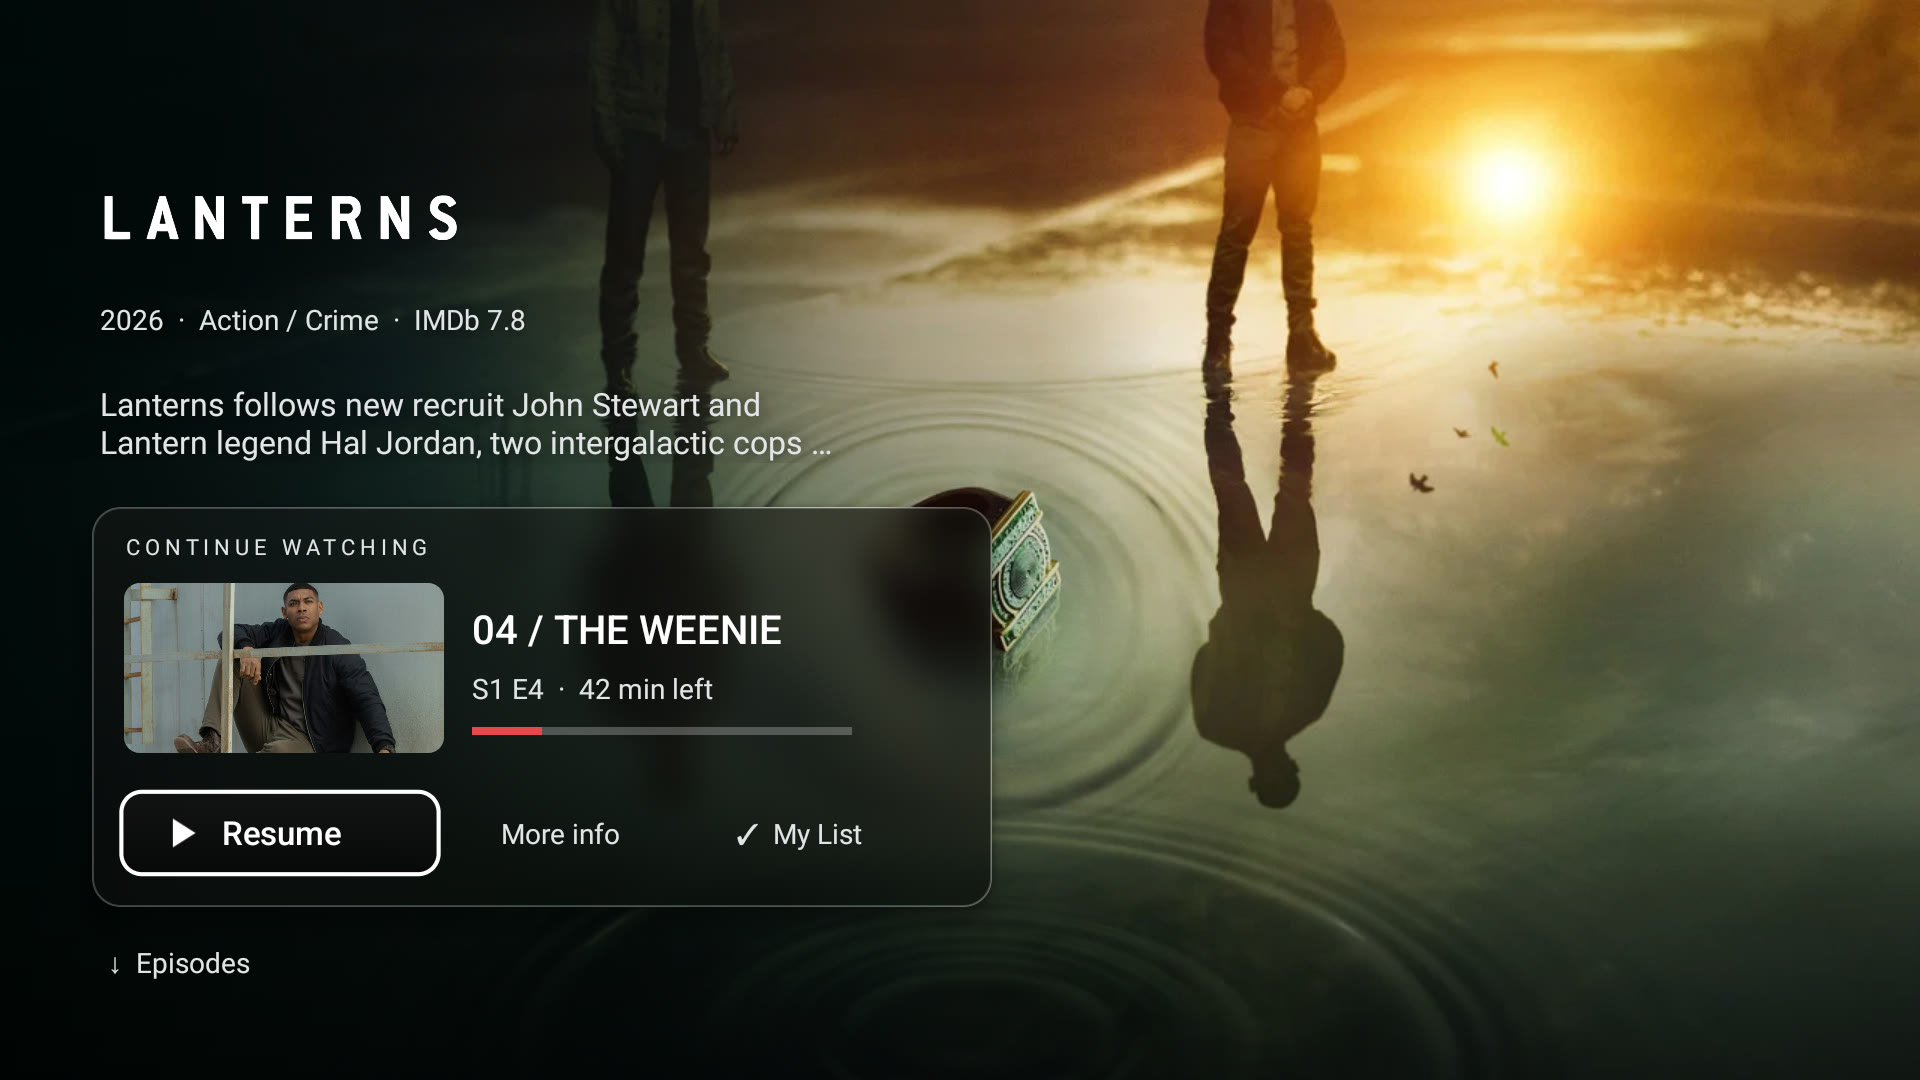
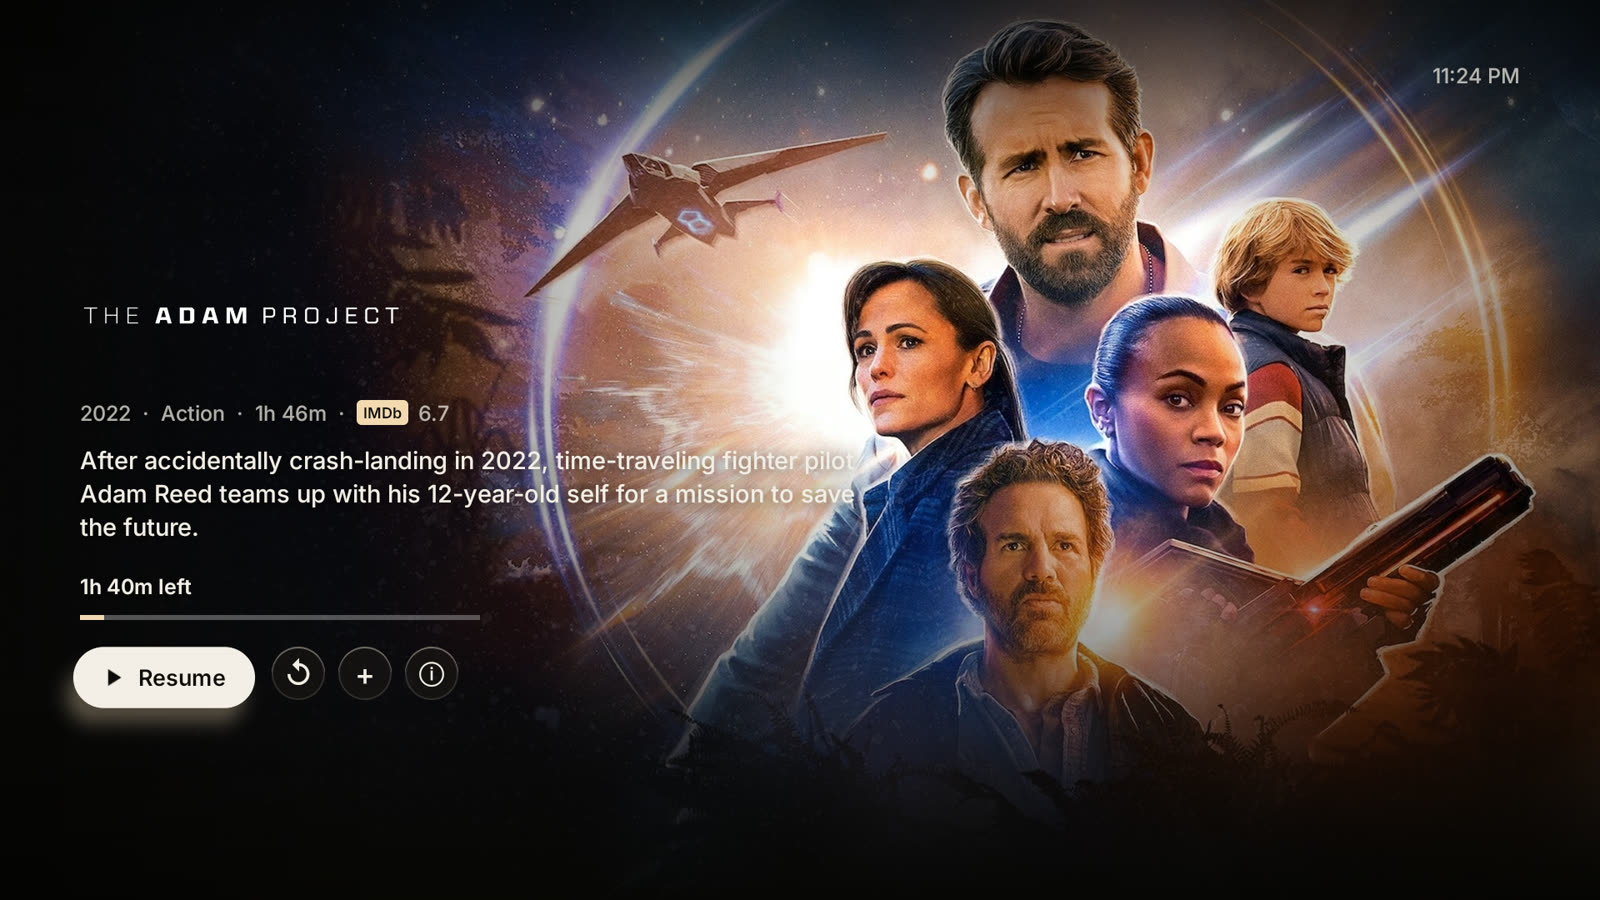
README: new screenshots, why Alder, clearer comparison with Stremio

diff --git a/README.md b/README.md
@@ -1,74 +1,109 @@
 <h1 align="center">Alder</h1>
 
 <p align="center">
-  The Stremio app for your TV, rebuilt. Keep Stremio on your phone and computer; watch in Alder.
+  <b>Stremio for the living room.</b><br>
+  Press Play and it plays. No stream lists to decode, no dead links, no setup on the remote.
 </p>
 
 <p align="center">
   <a href="https://github.com/aradhyas8/Alder/releases/latest"><img alt="Latest release" src="https://img.shields.io/github/v/release/aradhyas8/Alder?label=release"></a>
-  <img alt="Android 8.0+" src="https://img.shields.io/badge/Android-8.0%2B-3ddc84">
+  <img alt="Android TV 8.0+" src="https://img.shields.io/badge/Android%20TV-8.0%2B-3ddc84">
   <a href="LICENSE"><img alt="GPL-3.0 License" src="https://img.shields.io/badge/license-GPL--3.0-blue"></a>
 </p>
 
 <p align="center">
-  <img src="docs/home.jpg" alt="Alder home screen" width="49%">
-  <img src="docs/details.jpg" alt="Alder title page" width="49%">
+  <img src="docs/home.jpg" alt="Alder home screen with Continue Watching" width="100%">
 </p>
 
-Alder replaces the Stremio app on your TV, not Stremio itself. Your account, add-ons, library and watch progress stay exactly where they are, and everything you do in Alder syncs back to Stremio on your phone and computer. What's new is the app you watch in: made for a TV and a remote, and quiet enough that the film is the main thing on screen.
+Alder is an Android TV app for your Stremio account. Your account, add-ons, library and watch progress stay exactly where they are, and everything you watch syncs back to Stremio on your phone and computer. What changes is the app on the TV: built for a remote, simple enough for anyone in the family, and quiet enough that the film is the main thing on screen.
 
-## How it fits with Stremio
+## Why Alder
 
-You still use Stremio. Alder is the part you sit in front of.
+Stremio on a TV hands you a list of fifty streams named like `2160p.WEB.HEVC.DV.HDR10.Atmos`, and leaves you to guess which one your TV can play. That's fine for the person who set it up. It isn't for parents, grandparents, or anyone who just wants to watch.
 
-- **On your phone or computer, in Stremio:** create your account, find add-ons, configure them (AIOStreams, Torrentio and the like are set up on a web page) and install them.
-- **On your TV, in Alder:** sign in once with a code, then browse, play and pick up where you left off. Add-ons you install in Stremio show up in Alder on their own.
+Alder makes that choice for them:
 
-Alder has no add-on store of its own. Setting up add-ons is typing and web forms, which is easier on a phone than with a remote.
+- **Press Play, it plays.** Alder picks the best source for your TV and starts it. Hold OK when you want to choose yourself.
+- **Dead links don't stop the film.** If a stream fails or shows no picture within 12 seconds, Alder moves to the next one from the same second. You only see the list if three fail in a row.
+- **It knows your TV.** Files your TV can't decode are left out before anyone sees them, including Dolby Vision profiles it can't show and 4K on a 1080p screen.
+- **Sound that works.** DTS and TrueHD play on any TV. The starting track is the original language, not a dub or a commentary. If a track breaks mid-film, the next best one takes over at the same second.
+- **Everyone gets their own profile.** Up to 5, each its own Stremio account with its own history and recommendations, and an optional PIN.
 
-## Highlights
+## A look around
 
-- **Press Play, it plays.** Alder picks the best source for your TV and starts it. If a stream fails or shows no picture, it moves to the next one from the same second. Hold OK when you want to choose.
-- **Picks up where you left off.** Resume reaches for the same release you were watching, and the next episode prefers the same release group, so quality and audio don't change mid-season.
-- **Knows your TV.** Files your TV can't decode are left out before you see them, including Dolby Vision profiles it can't show. Higher quality than your screen or HDR on a screen without it goes down the list.
-- **A profile for everyone.** Up to 5 profiles, each its own Stremio account with its own history and recommendations, and an optional PIN.
-- **Continue Watching on the Google TV home screen.** Jump straight back into a show without opening the app first.
-- **A cinematic interface.** Full-screen art, title logos and rows of posters, with everything else out of the way.
-- **The player you'd want.** Skip intro, Up next in the last minute (it plays on at the end unless you watch the credits), audio and subtitle choice in one panel, subtitles from add-ons like OpenSubtitles with size, background and timing controls, DTS and TrueHD audio, and frame-rate matching.
-- **Share a streaming source at home.** A profile can let another profile use one of its configured stream add-ons on this TV without merging their Stremio watch histories.
-- **Tidy add-ons from the sofa.** Reorder, remove, or add one by URL. Changes save to your Stremio account.
+<table>
+  <tr>
+    <td width="50%"><img src="docs/picker.jpg" alt="Profile picker"><br><b>Who's watching.</b> One profile per person, each its own Stremio account.</td>
+    <td width="50%"><img src="docs/details.jpg" alt="Title page"><br><b>Title page.</b> Full-screen art, how much is left, and one button to Resume.</td>
+  </tr>
+  <tr>
+    <td><img src="docs/sources.jpg" alt="Sources list"><br><b>Sources, when you want them.</b> Hold OK to see every source in plain columns: quality, release, size. Best match is marked.</td>
+    <td><img src="docs/tracks.jpg" alt="Audio and subtitles panel"><br><b>Audio and subtitles in one panel.</b> English original picked over the dubs on its own.</td>
+  </tr>
+  <tr>
+    <td><img src="docs/controls.jpg" alt="Player controls"><br><b>A calm player.</b> Time left, when it ends, and the few controls that matter.</td>
+    <td><img src="docs/search.jpg" alt="Search"><br><b>Search across every add-on</b>, with a keyboard built for the remote, and voice.</td>
+  </tr>
+  <tr>
+    <td><img src="docs/settings.jpg" alt="Stream settings"><br><b>Preferences in plain words.</b> Best picture, Balanced or Fast start; no release jargon needed.</td>
+    <td valign="top"><br><b>Also in the box</b>
+      <ul>
+        <li>Continue Watching on the Google TV home screen</li>
+        <li>Skip intro, and the next episode in the same release</li>
+        <li>Resume fetches a fresh link and finds the same file</li>
+        <li>"Switch to a lower quality" when a stream keeps buffering</li>
+        <li>Frame-rate matching for smooth 24 fps films</li>
+        <li>Updates itself from GitHub releases</li>
+      </ul>
+    </td>
+  </tr>
+</table>
 
-## How it compares
+## Alder vs. Stremio on the TV
 
 | | Alder | Stremio for Android TV |
 |---|---|---|
-| Your Stremio account, add-ons and library | Yes | Yes |
-| Watch progress synced with your other devices | Yes | Yes |
-| Profiles, each with its own account and PIN | **Yes** | No |
-| Starts the best playable source in one press | **Yes** | You choose from the list |
-| Moves to the next source when one fails | **Yes, from the same second** | No |
-| Skips files the TV can't play | **Yes** | No |
-| Skip intro | **Yes** | No |
+| Your Stremio account, add-ons and library | ✅ | ✅ |
+| Watch progress synced with your phone and computer | ✅ | ✅ |
+| Pressing Play | **Starts the best source for your TV** | Opens a list of streams to choose from |
+| When a stream fails | **Tries the next one from the same second** | Back to the list |
+| Files the TV can't decode | **Hidden before you see them** | Listed; you find out when it won't play |
+| Profiles | **Up to 5, each its own account, with PIN** | One account per install |
+| Stream preferences | **Plain words: Best picture, Balanced, Fast start** | Set inside each add-on |
+| Skip intro | ✅ | ❌ |
+| Continue Watching on the Google TV home | ✅ | ❌ |
 | Finding and configuring add-ons | In Stremio on your phone or computer | On the TV |
-| Torrent streaming | No, debrid add-ons only | Yes |
+| Torrent streaming | ❌ Debrid only | ✅ |
+| App size | **About 5 MB** | Much larger, with a streaming server |
 | Built for | **A TV and a remote** | Shared with desktop and web |
+
+## How it fits with Stremio
+
+You keep using Stremio. Alder is the part you sit in front of.
+
+- **On your phone or computer, in Stremio:** create your account, find add-ons, configure them (AIOStreams, Torrentio with a debrid service and the like are set up on a web page) and install them.
+- **On your TV, in Alder:** sign in once with a code, then browse, play and pick up where you left off. Add-ons you install in Stremio show up in Alder on their own.
+
+Alder has no add-on store. Setting up add-ons means typing and web forms, which is easier on a phone than with a remote.
 
 ## Requirements
 
 - Android TV or Google TV running **Android 8.0 (Oreo) or newer**
-- A Stremio account with stream add-ons (debrid, for example through AIOStreams), set up in Stremio on your phone or computer
+- A Stremio account with **debrid** stream add-ons (for example AIOStreams with Real-Debrid), set up in Stremio on your phone or computer
 - A way to sideload an APK: the *Downloader* app, a USB drive with a file manager, or `adb`
 
-## Installation
+## Install
 
 1. On your phone or computer, sign in to [Stremio](https://web.stremio.com) and install your add-ons.
-1. Download the latest APK from the [Releases](https://github.com/aradhyas8/Alder/releases/latest) page.
-1. Install it on your TV with the Downloader app, a USB drive and a file manager, or `adb install Alder-<version>.apk`.
+1. Download `Alder-<version>.apk` from the [latest release](https://github.com/aradhyas8/Alder/releases/latest).
+1. Install it on your TV with Downloader, a USB drive and a file manager, or `adb install Alder-<version>.apk`.
 1. Open **Alder**, name your profile and sign in to Stremio with the code on screen. Your add-ons, library and Continue Watching come with it.
+
+After that, Alder offers new versions itself. The first time, Android asks you to allow Alder to install apps.
 
 ## Privacy
 
-Alder has no analytics, no ads and no account of its own. It talks to Stremio, to the add-ons you installed, to image hosts for artwork, and to [IntroDB](https://introdb.app) for intro times. Profiles and their PINs stay on the TV.
+Alder has no analytics, no ads and no account of its own. It talks to Stremio, to the add-ons you installed, to image hosts for artwork, to [IntroDB](https://introdb.app) for intro times, and to GitHub to check for updates. Profiles and their PINs stay on the TV.
 
 ## Building from source
 
